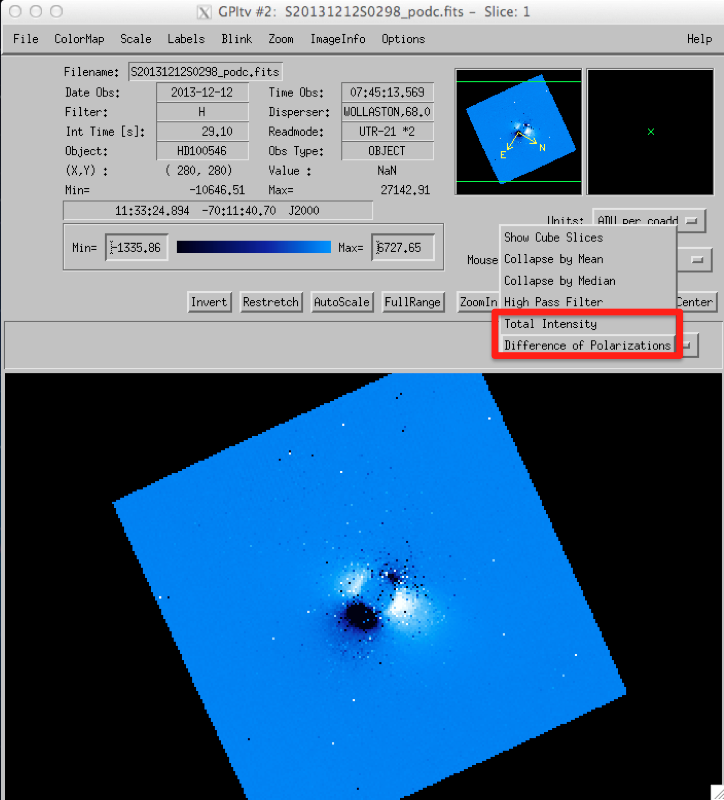
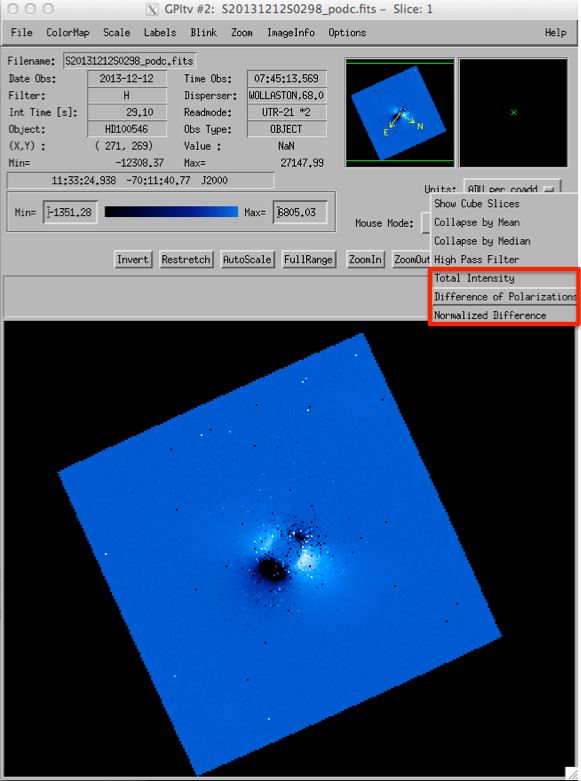
merged changes from trunk to public branch for 1.2.1 - ugh, commit 3566 to the trunk was an accident

diff --git a/documentation/usage/tutorial_pol.rst b/documentation/usage/tutorial_pol.rst
@@ -37,7 +37,7 @@ In GPI's polarization mode each lenslet creates a pair of spots on the detector 
 	1. Open the recipe editor and press the Add Files button. Select flat files taken in the same GPI filter band as your science data. In the tutorial data set select files **S20131212S0022.fits to S20131212S0024.fits** from the lamps directory. 
 	2. In the Recipe Editor, from the drop down menus on the right select **Reduction Category -> Calibration** and then **Recipe Template -> Calibrate Polarization Spot Locations - Parallel**. By selecting the Parallel option by default the pipeline tries to spread the computation across 4 threads. If for some reason you'd rather limit the process to one thread you can choose Calibrate Polarization Spot Locations. [#]_
 	3. Press Save Recipe and Queue. This process should take a few minutes, depending on your machine and whether or not you chose the parallel option. 
-	4. Once this is complete it's a good idea to double check that your spot calibration file is doing what it should. Open GPItv and open the file named S20131212S0022.fits. From the **Labels** menu select **Labels -> Get Wavcal/Polcal from CalDB**. Now select **Labels-> Plot Wavecal/Polcal Grid**. 
+	4. Once this is complete it's a good idea to double check that your spot calibration file is doing what it should. Open GPItv and open the file named S20131212S0022.fits. From the **Labels** menu select **Labels -> Get Wavcal/Polcal from CalDB**. Now select **Labels-> Plot Wavecal/Polcal Grid** and use the default options in the dialog box that pops up. 
  
 	   When zoomed out it your calibration should looked like a nice evenly spaced grid: 
 
@@ -88,15 +88,17 @@ This step will walk through how to create polarization data cube from raw data. 
 
 	  Automatic compensation for flexure has been implemented as of pipeline version 1.2 using a primitive named 'Flexure 2D x correlation with polcal' that replaces the previous 'Update Spot Shifts for Flexure'. If you insist on using an older version of the pipeline, instructions can be found on how to manually compensate for flexure at the bottom of this page. 
 	  
-	   Your Recipe Editor Window should now look something like this: 
+	  The offsets found by the automatic flexure compensation will be printed out to the IDL terminal corresponding to the GPI DRP Status Console. To check that these offsets are appropriate for your data you can manually enter these offsets in the dialog box that pops up when you select **Labels-> Plot Wavecal/Polcal Grid** in GPItv. 
+	  
+	  Your Recipe Editor Window should now look something like this: 
 
 		.. image:: recipe_editor_pol1.png
 			:align: center
 			:scale: 50%
 
-	4. Now Press "Save Recipe and Queue". The pipeline should create 4 files with suffixes "_podc". The pipeline has created one image for each orthogonal polarization. You can now view your podc files in GPItv (a window should have popped open automatically).
+	4. Now Press "Save Recipe and Queue". The pipeline should create 4 files with suffixes "_podc". For each raw data file the pipeline has created a 3D data cube with one image for each orthogonal polarization. You can now view your podc files in GPItv (a window should have popped open automatically).
 
-	   You can view the total intensity (the sum of the two images) or the difference of the polarizations, by selecting either option in the drop down menu highlighted in red:
+	   You can view the total intensity (the sum of the two images), the difference of the polarizations or the normalized difference (the difference divided by the total intensity), by selecting either option in the drop down menu highlighted in red:
 		.. image:: gpitv_podc.png
 			:scale: 75%
 			:align: center
@@ -115,13 +117,18 @@ Creating Stokes Cubes from Polarization Cubes
 
 	2. Select **Reduction Category-> PolarimetryScience** and **Recipe Template -> Basic Polarization Sequence (from podc cubes)**. 
 
-	3. An important step in the combining a polarization sequence is rotating the images to the same position angle. This is done by the Rotate North Up primitive, which looks for the pivot point of the rotation in the header keywords [PSFCENTX, PSFCENTY]. These keywords are created by the Measure Star Position for Polarimetry primitive. This primitive relies on an estimate of the centre position, provided as a primitive parameter, which it refines into a more precise estimate via a Radon transform based algorithm. Open one of your podc files in GPItv and estimate the location of the centre of the occulting spot. For the tutorial dataset the centre is roughly at [147,147]: 
+	3. An important step in combining a polarization sequence is rotating the images to the same position angle. This is done by the Rotate North Up primitive, which looks for the pivot point of the rotation in the header keywords [PSFCENTX, PSFCENTY]. These keywords are created by the Measure Star Position for Polarimetry primitive that was run while creating the polarization data cubes. This primitive relies on an estimate of the centre position, provided as a primitive parameter, which it refines into a more precise estimate via a Radon transform based algorithm. If the star was well centred on the detector during your observations then the primitive should have successfully found a centre close to [140,140]. In general it is worth double checking that this was done correctly. 
+
+	   Open one of your podc files in GPItv and check the Science header extension for the PSFCENTX and PSFCENTY keywords. Check that this is consistent with the centre of the image in GPItv. For the tutorial dataset the centre is roughly at [139,140]: 
 		
 		.. image:: gpitv_psfcent.png
 			:scale: 75%
 			:align: center
 
-	   Enter these values into the Measure Star Position for Polarimetry primitive. Your recipe editor should now look roughly like this:
+	   (If the keyword positions do not match with the image location then you should include the Measure Star Position primitive in recipe below before the Accumulate Images primitive. Make sure to update the x0 and y0 primitive parameters with an updated initial guess for the centre location.)
+
+
+	   Your recipe editor should now look roughly like this:
 		.. image:: recipe_editor_pol2.png
 			:scale: 75%
 			:align: center
@@ -153,11 +160,9 @@ Creating Stokes Cubes from Raw Data
 
 	1. If you are confident that you have a good estimate of the star's location you can create a Stokes Data Cube in one step by selecting Recipe Template -> Basic Polarization Sequence (from Raw Data). 
 
-	2. Enter the offsets due to flexure as parameters to the "Update Spot Shifts for Flexure" primitive. 
+	2. Enter the estimate of the star's coordinates as parameters to the "Measure Star Position for Polarimetry" primitive (or leave them as the default values). 
 
-	3. Enter the estimate of the star's coordinates as parameters to the "Measure Stay Position for Polarimetry" primitive. 
-
-	4. Press "Save Recipe and Queue" 
+	3. Press "Save Recipe and Queue" 
 
 Flexure compensation in older pipeline versions
 ============================================================
